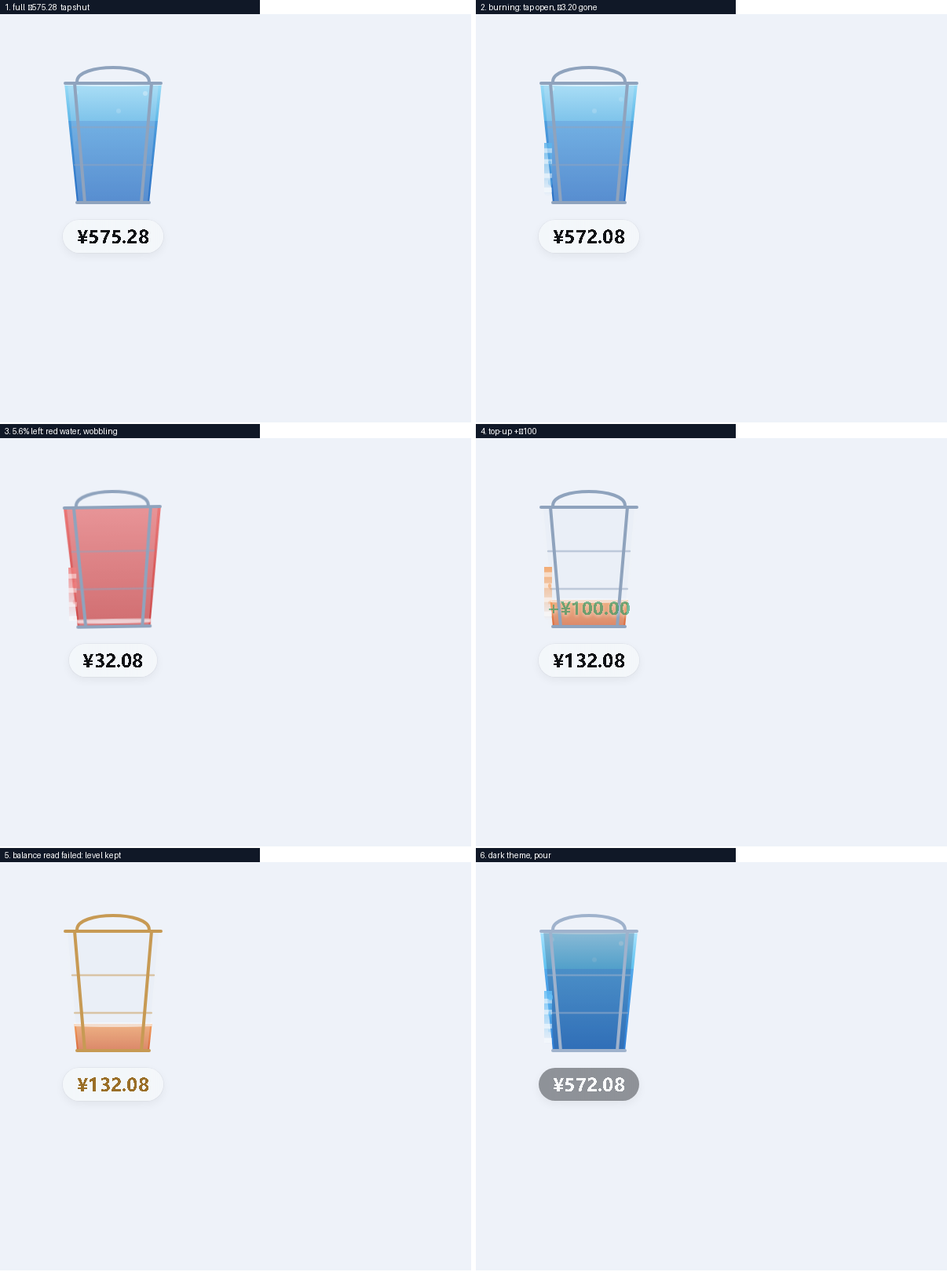
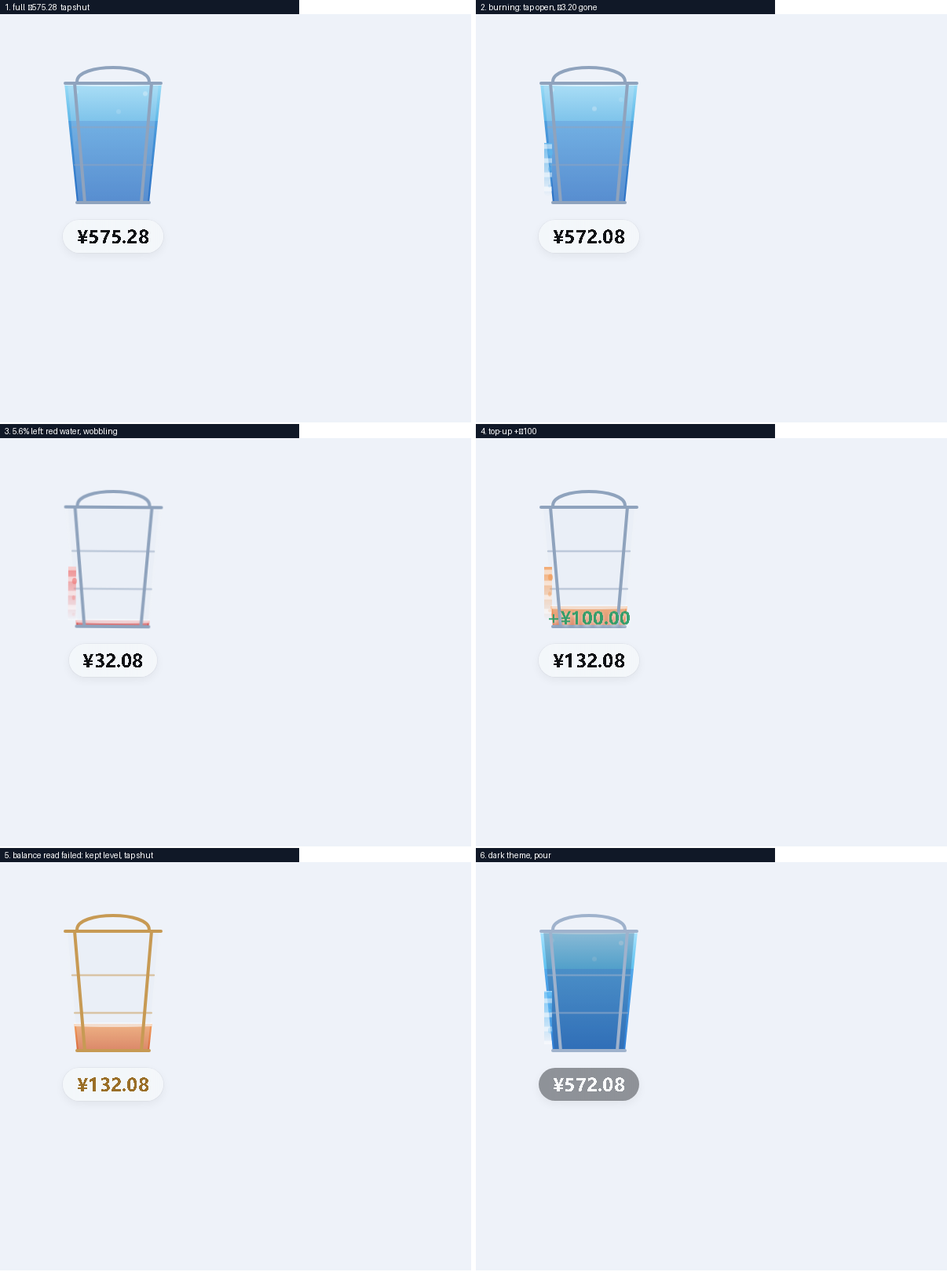
Host reflection and diagnosable failures (0.1.1)
The Host now ships its strict reflection (lib/typert.host.js, exported as
./typert). Without it the plugin could load every file and still have the balance
stream refused, so a Git or npm install would have looked installed and shown
nothing at all.

Also: a Host without a usable fetch is reported as `no fetch` instead of a vague
network failure, and the settings panel names the short, sanitised reason behind a
non-ready state (no key, rejected key, no fetch, timeout, unreadable answer), so a
first run can be diagnosed without a console. The state screenshot was regenerated
from the shipped UI.

diff --git a/lib/client.js b/lib/client.js
@@ -1,7 +1,7 @@
 // Generated by tools/build.mjs. Reads one balance stream over the existing authenticated connection.
 window.__ModuleLoader__.load({id:'dsh-plugin-token-bucket',factory:function(require){
 'use strict';
-const CSS=":host{all:initial;position:fixed;inset:0;pointer-events:none;z-index:30;font-family:var(--dsw-font-family,inherit);color-scheme:inherit;\n/* Inherit live official tokens; fallbacks match Desktop for offline rendering. */\n--ink:var(--dsw-alias-label-primary,light-dark(#0f1115,#f9fafb));--muted:var(--dsw-alias-label-secondary,light-dark(#61666b,#cfd3d6));\n--surface:var(--dsw-specific-menu,light-dark(#f8f9fa94,#30313680));--border:var(--dsw-alias-border-l3,light-dark(#0000001f,#ffffff29));\n--hairline:var(--dsw-alias-border-l1,light-dark(#0000000a,#ffffff0f));--divider:var(--dsw-alias-border-l2,light-dark(#0000001a,#ffffff1f));\n--accent:var(--dsw-alias-brand-primary,light-dark(#0f1115,#f9fafb));--foreground:var(--dsw-alias-label-primary-foreground,light-dark(#ffffff,#0f1115));\n--tint:var(--dsw-alias-interactive-bg-hover,light-dark(#2631480f,#ffffff14));--active:var(--dsw-alias-interactive-bg-active,light-dark(#2631481a,#ffffff24));\n--control:var(--dsw-alias-bg-module-platform,light-dark(#f9fafb,#353638));\n--menu-blur:var(--dsw-menu-backdrop-filter,blur(40px) saturate(150%));\n/* Bucket palette: glass and metal stay neutral, water carries the meaning. */\n--pail-line:light-dark(#8fa3bd,#9fb2cc);--pail-empty:light-dark(#eef2f8,#2a3242);--pail-glass:light-dark(#dfe8f4,#33405a);\n--water-top:light-dark(#5fb4ea,#63bdf5);--water-deep:light-dark(#2a6fc4,#2f7ed6);--bonus-top:light-dark(#9adcf7,#a8e4ff);--bonus-deep:light-dark(#5fb8e8,#5cc0ef);\n--water-line:light-dark(#ffffffb0,#ffffff8c);--danger-top:light-dark(#f3a05f,#f0a86b);--danger-deep:light-dark(#d9683c,#cc6136);--low-top:light-dark(#ef7f7f,#f08b8b);--low-deep:light-dark(#c94040,#b93c3c)}\n*{box-sizing:border-box}button,input,select{font:inherit}button{cursor:pointer}button:focus-visible,input:focus-visible{outline:2px solid var(--accent);outline-offset:4px}[hidden]{display:none!important}\n.bucket{position:fixed;width:104px;height:156px;pointer-events:none;isolation:isolate;user-select:none;-webkit-user-select:none}\n.bucket-button{all:unset;box-sizing:border-box;display:flex;flex-direction:column;align-items:center;width:100%;height:100%;padding:4px 0 0;cursor:grab;touch-action:none;pointer-events:auto;-webkit-app-region:no-drag;border-radius:18px}\n.bucket-button:active{cursor:grabbing}.bucket-button:focus-visible{outline:2px dashed var(--accent);outline-offset:0;border-radius:18px}\n.stage{position:relative;display:block;width:74px;height:92px;flex:none}\n.pail{position:absolute;inset:0;overflow:hidden;background:var(--pail-empty);\n  clip-path:polygon(8.1% 10.9%,91.9% 10.9%,81.1% 93.5%,18.9% 93.5%)}\n.water{position:absolute;left:-2px;right:-2px;bottom:6.5%;height:calc(var(--level,0) * 82.6%);transition:height .9s cubic-bezier(.3,0,.2,1)}\n.layer{position:absolute;left:0;right:0;background:linear-gradient(180deg,var(--water-top),var(--water-deep))}\n.layer.base{inset:0}\n.layer.bonus{top:0;height:calc(var(--bonus-share,0) * 100%);background:linear-gradient(180deg,var(--bonus-top),var(--bonus-deep))}\n.surf{position:absolute;left:0;right:0;top:-1px;height:3px;border-radius:50%;background:var(--water-line);opacity:.9}\n.foam{position:absolute;inset:0;overflow:hidden;opacity:calc(var(--bonus-share,0) * 1.6)}\n.foam span{position:absolute;width:3px;height:3px;border-radius:50%;background:#ffffffc9;animation:foam 4.2s ease-in-out infinite}\n.foam span:nth-child(1){left:18%;top:6%}.foam span:nth-child(2){left:52%;top:22%;animation-delay:-1.4s}.foam span:nth-child(3){left:74%;top:11%;animation-delay:-2.6s}\n@keyframes foam{0%,100%{transform:translateY(0);opacity:.35}50%{transform:translateY(-3px);opacity:.9}}\n.outline{position:absolute;inset:0;width:100%;height:100%;overflow:visible;pointer-events:none;color:var(--pail-line)}\n.outline path,.outline ellipse,.outline line{fill:none;stroke:currentColor;stroke-width:2;stroke-linecap:round}\n.outline .glass{fill:var(--pail-glass);fill-opacity:.25;stroke:none}\n.outline .rib{stroke-width:1.2;opacity:.5}\n.stream{position:absolute;left:15%;top:52%;width:calc(1px + var(--flow,0) * 4px);height:calc(4px + var(--flow,0) * 30px);\n  background:linear-gradient(180deg,var(--water-top),transparent);opacity:calc(var(--flow,0) * .85);border-radius:0 0 4px 4px;transform:translateX(-50%)}\n.stream::after{content:\"\";position:absolute;inset:0;background:repeating-linear-gradient(180deg,#ffffff8c 0 3px,transparent 3px 9px);\n  animation:fall .5s linear infinite;animation-duration:calc(.9s - var(--flow,0) * .65s)}\n@keyframes fall{from{background-position-y:0}to{background-position-y:12px}}\n.drops{position:absolute;left:15%;top:52%;width:0;height:0;pointer-events:none;opacity:var(--flow,0)}\n.drops span{position:absolute;width:3px;height:4px;border-radius:50%;background:var(--water-top);animation:drip 1.1s linear infinite}\n.drops span:nth-child(2){animation-delay:-.36s;width:2px;height:3px}\n.drops span:nth-child(3){animation-delay:-.72s;width:2px;height:2px}\n@keyframes drip{from{transform:translateY(0);opacity:.9}to{transform:translateY(34px);opacity:0}}\n.splash{position:absolute;left:50%;bottom:calc(6.5% + var(--level,0) * 82.6% - 5px);width:64px;height:10px;margin-left:-32px;border-radius:50%;border:2px solid var(--water-line);opacity:0;pointer-events:none}\n.bucket[data-splash=true] .splash{animation:splash .85s ease-out 1}\n@keyframes splash{0%{opacity:.85;transform:scale(.4)}100%{opacity:0;transform:scale(1.25)}}\n.delta{position:absolute;left:50%;top:calc(52% + 26px);transform:translateX(-50%);font-size:11px;font-weight:600;font-variant-numeric:tabular-nums;color:var(--water-deep);opacity:0;pointer-events:none;white-space:nowrap;text-shadow:0 1px 2px light-dark(#ffffffc0,#00000080)}\n.bucket[data-delta=spend] .delta{animation:delta-up 1.4s ease-out 1}\n.bucket[data-delta=refill] .delta{color:#2f9e6b;animation:delta-up 1.8s ease-out 1}\n@keyframes delta-up{0%{opacity:0;transform:translate(-50%,6px)}25%{opacity:1}100%{opacity:0;transform:translate(-50%,-16px)}}\n.amount{margin-top:5px;font-size:11.5px;font-weight:600;font-variant-numeric:tabular-nums;letter-spacing:.01em;color:var(--ink);\n  background:var(--surface);backdrop-filter:var(--menu-blur);border-radius:99px;padding:2px 9px;box-shadow:0 0 0 .5px var(--hairline),0 2px 6px #0000000f;transition:opacity .2s}\n.bucket[data-amount=false] .amount{opacity:0}\n.bucket:hover .amount,.bucket:focus-within .amount{opacity:1}\n.bucket[data-level=low] .layer{background:linear-gradient(180deg,var(--low-top),var(--low-deep))}\n.bucket[data-level=low] .stream{background:linear-gradient(180deg,var(--low-top),transparent)}\n.bucket[data-level=low] .drops span{background:var(--low-top)}\n.bucket[data-level=mid] .layer{background:linear-gradient(180deg,var(--danger-top),var(--danger-deep))}\n.bucket[data-level=mid] .stream{background:linear-gradient(180deg,var(--danger-top),transparent)}\n.bucket[data-level=mid] .drops span{background:var(--danger-top)}\n.bucket[data-level=low] .stage{animation:wobble 2.6s ease-in-out infinite}\n@keyframes wobble{0%,100%{transform:rotate(-1.4deg)}50%{transform:rotate(1.4deg)}}\n/* Not-ready states: the bucket keeps its last level but stops pretending to be live. */\n.bucket[data-status=unconfigured] .pail,.bucket[data-status=unauthorized] .pail,.bucket[data-status=invalid] .pail{background:var(--pail-empty)}\n.bucket[data-status=unconfigured] .layer,.bucket[data-status=unauthorized] .layer,.bucket[data-status=invalid] .layer{background:linear-gradient(180deg,#9aa8bd80,#7b8aa380);filter:saturate(.15)}\n.bucket[data-status=unconfigured] .stream,.bucket[data-status=unauthorized] .stream,.bucket[data-status=invalid] .stream,\n.bucket[data-status=unconfigured] .drops,.bucket[data-status=unauthorized] .drops,.bucket[data-status=invalid] .drops{opacity:0}\n.bucket[data-status=stale] .outline,.bucket[data-status=unreachable] .outline{color:light-dark(#c79a54,#d8ab63)}\n.bucket[data-status=stale] .amount,.bucket[data-status=unreachable] .amount{color:light-dark(#9a6f28,#e0bd80)}\n.bucket[data-dragging=true] .stage{animation-play-state:paused!important}\n.panel,.restore,.panel button,.setting select{corner-shape:var(--dsw-corner-shape,superellipse(1.5))}\n.panel,.restore{background:var(--surface);backdrop-filter:var(--menu-blur);box-shadow:0 0 0 .5px var(--hairline),0 3px 8px #0000000a,0 0 20px #0000000d}\n.panel{pointer-events:auto;position:fixed;z-index:2;width:268px;max-width:calc(100vw - 24px);max-height:calc(100vh - 80px);overflow:auto;border:0;border-radius:16px;padding:14px;color:var(--ink);font-size:13px;line-height:20px;-webkit-app-region:no-drag}\n.panel-head{display:flex;align-items:center;gap:8px;margin-bottom:8px}.panel-head strong{font-size:14px;flex:1;font-weight:600}\n.close{display:grid;place-items:center;flex:none;border:0;background:transparent;color:var(--muted);width:28px;height:28px;padding:0;border-radius:8px}.close:hover{background:var(--tint);color:var(--ink)}\n.subtitle{margin:0 0 12px;color:var(--muted);font-size:12px;line-height:19px}\n.setting{display:flex;align-items:center;justify-content:space-between;gap:12px;min-height:34px;margin:4px 0}.setting label{flex:1;min-width:0;cursor:pointer}\n.setting input[type=range]{appearance:none;flex:none;width:120px;max-width:58%;height:28px;margin:0;background:transparent;cursor:pointer;border-radius:8px}\n.setting input[type=range]::-webkit-slider-runnable-track{height:4px;border-radius:99px;background:linear-gradient(to right,var(--accent) 0 var(--range-progress,0%),var(--border) var(--range-progress,0%) 100%)}\n.setting input[type=range]::-webkit-slider-thumb{appearance:none;width:14px;height:14px;margin-top:-5px;border:2px solid var(--foreground);border-radius:50%;background:var(--accent);box-shadow:0 0 0 1px var(--border)}\n.setting input[type=checkbox]{appearance:none;position:relative;flex:none;width:36px;height:20px;margin:0;border:0;border-radius:99px;background:var(--border);cursor:pointer;transition:background .15s}\n.setting input[type=checkbox]::before{content:\"\";position:absolute;left:2px;top:2px;width:16px;height:16px;border-radius:50%;background:var(--foreground);transition:transform .15s}\n.setting input[type=checkbox]:checked{background:var(--accent)}.setting input[type=checkbox]:checked::before{transform:translateX(16px)}\n.size-value{margin-left:3px;font-size:11px;font-variant-numeric:tabular-nums;color:var(--muted)}\n.readout{margin:10px 0 0;padding:10px 0 0;border-top:.5px solid var(--divider);display:grid;grid-template-columns:auto 1fr;gap:3px 10px;font-size:12px;line-height:18px}\n.readout dt{color:var(--muted);white-space:nowrap}.readout dd{margin:0;text-align:right;font-variant-numeric:tabular-nums;overflow-wrap:anywhere}\n.panel-actions{display:flex;gap:8px;margin-top:12px;padding-top:12px;border-top:.5px solid var(--divider)}\n.action{flex:1;min-width:0;min-height:32px;border:1px solid var(--border);background:transparent;color:var(--ink);border-radius:8px;padding:5px 8px;font-size:12px;line-height:20px}.action:hover{background:var(--tint)}.action:active,.close:active{background:var(--active)}\n.restore{position:fixed;right:18px;bottom:18px;pointer-events:auto;border:0;color:var(--muted);border-radius:99px;padding:7px 11px;font-size:11px;-webkit-app-region:no-drag}.restore:hover{color:var(--ink);background:var(--control)}\n.panel button:focus-visible,.panel input:focus-visible{outline:2px solid var(--accent);outline-offset:2px}\n:host([data-paused=true]) *,:host([data-motion=false]) *{animation:none!important;transition:none!important}\n@media(prefers-reduced-motion:reduce){*{animation:none!important;transition:none!important}}\n";
+const CSS=":host{all:initial;position:fixed;inset:0;pointer-events:none;z-index:30;font-family:var(--dsw-font-family,inherit);color-scheme:inherit;\n/* Inherit live official tokens; fallbacks match Desktop for offline rendering. */\n--ink:var(--dsw-alias-label-primary,light-dark(#0f1115,#f9fafb));--muted:var(--dsw-alias-label-secondary,light-dark(#61666b,#cfd3d6));\n--surface:var(--dsw-specific-menu,light-dark(#f8f9fa94,#30313680));--border:var(--dsw-alias-border-l3,light-dark(#0000001f,#ffffff29));\n--hairline:var(--dsw-alias-border-l1,light-dark(#0000000a,#ffffff0f));--divider:var(--dsw-alias-border-l2,light-dark(#0000001a,#ffffff1f));\n--accent:var(--dsw-alias-brand-primary,light-dark(#0f1115,#f9fafb));--foreground:var(--dsw-alias-label-primary-foreground,light-dark(#ffffff,#0f1115));\n--tint:var(--dsw-alias-interactive-bg-hover,light-dark(#2631480f,#ffffff14));--active:var(--dsw-alias-interactive-bg-active,light-dark(#2631481a,#ffffff24));\n--control:var(--dsw-alias-bg-module-platform,light-dark(#f9fafb,#353638));\n--menu-blur:var(--dsw-menu-backdrop-filter,blur(40px) saturate(150%));\n/* Bucket palette: glass and metal stay neutral, water carries the meaning. */\n--pail-line:light-dark(#8fa3bd,#9fb2cc);--pail-empty:light-dark(#eef2f8,#2a3242);--pail-glass:light-dark(#dfe8f4,#33405a);\n--water-top:light-dark(#5fb4ea,#63bdf5);--water-deep:light-dark(#2a6fc4,#2f7ed6);--bonus-top:light-dark(#9adcf7,#a8e4ff);--bonus-deep:light-dark(#5fb8e8,#5cc0ef);\n--water-line:light-dark(#ffffffb0,#ffffff8c);--danger-top:light-dark(#f3a05f,#f0a86b);--danger-deep:light-dark(#d9683c,#cc6136);--low-top:light-dark(#ef7f7f,#f08b8b);--low-deep:light-dark(#c94040,#b93c3c)}\n*{box-sizing:border-box}button,input,select{font:inherit}button{cursor:pointer}button:focus-visible,input:focus-visible{outline:2px solid var(--accent);outline-offset:4px}[hidden]{display:none!important}\n.bucket{position:fixed;width:104px;height:156px;pointer-events:none;isolation:isolate;user-select:none;-webkit-user-select:none}\n.bucket-button{all:unset;box-sizing:border-box;display:flex;flex-direction:column;align-items:center;width:100%;height:100%;padding:4px 0 0;cursor:grab;touch-action:none;pointer-events:auto;-webkit-app-region:no-drag;border-radius:18px}\n.bucket-button:active{cursor:grabbing}.bucket-button:focus-visible{outline:2px dashed var(--accent);outline-offset:0;border-radius:18px}\n.stage{position:relative;display:block;width:74px;height:92px;flex:none}\n.pail{position:absolute;inset:0;overflow:hidden;background:var(--pail-empty);\n  clip-path:polygon(8.1% 10.9%,91.9% 10.9%,81.1% 93.5%,18.9% 93.5%)}\n.water{position:absolute;left:-2px;right:-2px;bottom:6.5%;height:calc(var(--level,0) * 82.6%);transition:height .9s cubic-bezier(.3,0,.2,1)}\n.layer{position:absolute;left:0;right:0;background:linear-gradient(180deg,var(--water-top),var(--water-deep))}\n.layer.base{inset:0}\n.layer.bonus{top:0;height:calc(var(--bonus-share,0) * 100%);background:linear-gradient(180deg,var(--bonus-top),var(--bonus-deep))}\n.surf{position:absolute;left:0;right:0;top:-1px;height:3px;border-radius:50%;background:var(--water-line);opacity:.9}\n.foam{position:absolute;inset:0;overflow:hidden;opacity:calc(var(--bonus-share,0) * 1.6)}\n.foam span{position:absolute;width:3px;height:3px;border-radius:50%;background:#ffffffc9;animation:foam 4.2s ease-in-out infinite}\n.foam span:nth-child(1){left:18%;top:6%}.foam span:nth-child(2){left:52%;top:22%;animation-delay:-1.4s}.foam span:nth-child(3){left:74%;top:11%;animation-delay:-2.6s}\n@keyframes foam{0%,100%{transform:translateY(0);opacity:.35}50%{transform:translateY(-3px);opacity:.9}}\n.outline{position:absolute;inset:0;width:100%;height:100%;overflow:visible;pointer-events:none;color:var(--pail-line)}\n.outline path,.outline ellipse,.outline line{fill:none;stroke:currentColor;stroke-width:2;stroke-linecap:round}\n.outline .glass{fill:var(--pail-glass);fill-opacity:.25;stroke:none}\n.outline .rib{stroke-width:1.2;opacity:.5}\n.stream{position:absolute;left:15%;top:52%;width:calc(1px + var(--flow,0) * 4px);height:calc(4px + var(--flow,0) * 30px);\n  background:linear-gradient(180deg,var(--water-top),transparent);opacity:calc(var(--flow,0) * .85);border-radius:0 0 4px 4px;transform:translateX(-50%)}\n.stream::after{content:\"\";position:absolute;inset:0;background:repeating-linear-gradient(180deg,#ffffff8c 0 3px,transparent 3px 9px);\n  animation:fall .5s linear infinite;animation-duration:calc(.9s - var(--flow,0) * .65s)}\n@keyframes fall{from{background-position-y:0}to{background-position-y:12px}}\n.drops{position:absolute;left:15%;top:52%;width:0;height:0;pointer-events:none;opacity:var(--flow,0)}\n.drops span{position:absolute;width:3px;height:4px;border-radius:50%;background:var(--water-top);animation:drip 1.1s linear infinite}\n.drops span:nth-child(2){animation-delay:-.36s;width:2px;height:3px}\n.drops span:nth-child(3){animation-delay:-.72s;width:2px;height:2px}\n@keyframes drip{from{transform:translateY(0);opacity:.9}to{transform:translateY(34px);opacity:0}}\n.splash{position:absolute;left:50%;bottom:calc(6.5% + var(--level,0) * 82.6% - 5px);width:64px;height:10px;margin-left:-32px;border-radius:50%;border:2px solid var(--water-line);opacity:0;pointer-events:none}\n.bucket[data-splash=true] .splash{animation:splash .85s ease-out 1}\n@keyframes splash{0%{opacity:.85;transform:scale(.4)}100%{opacity:0;transform:scale(1.25)}}\n.delta{position:absolute;left:50%;top:calc(52% + 26px);transform:translateX(-50%);font-size:11px;font-weight:600;font-variant-numeric:tabular-nums;color:var(--water-deep);opacity:0;pointer-events:none;white-space:nowrap;text-shadow:0 1px 2px light-dark(#ffffffc0,#00000080)}\n.bucket[data-delta=spend] .delta{animation:delta-up 1.4s ease-out 1}\n.bucket[data-delta=refill] .delta{color:#2f9e6b;animation:delta-up 1.8s ease-out 1}\n@keyframes delta-up{0%{opacity:0;transform:translate(-50%,6px)}25%{opacity:1}100%{opacity:0;transform:translate(-50%,-16px)}}\n.amount{margin-top:5px;font-size:11.5px;font-weight:600;font-variant-numeric:tabular-nums;letter-spacing:.01em;color:var(--ink);\n  background:var(--surface);backdrop-filter:var(--menu-blur);border-radius:99px;padding:2px 9px;box-shadow:0 0 0 .5px var(--hairline),0 2px 6px #0000000f;transition:opacity .2s}\n.bucket[data-amount=false] .amount{opacity:0}\n.bucket:hover .amount,.bucket:focus-within .amount{opacity:1}\n.bucket[data-level=low] .layer{background:linear-gradient(180deg,var(--low-top),var(--low-deep))}\n.bucket[data-level=low] .stream{background:linear-gradient(180deg,var(--low-top),transparent)}\n.bucket[data-level=low] .drops span{background:var(--low-top)}\n.bucket[data-level=mid] .layer{background:linear-gradient(180deg,var(--danger-top),var(--danger-deep))}\n.bucket[data-level=mid] .stream{background:linear-gradient(180deg,var(--danger-top),transparent)}\n.bucket[data-level=mid] .drops span{background:var(--danger-top)}\n.bucket[data-level=low] .stage{animation:wobble 2.6s ease-in-out infinite}\n@keyframes wobble{0%,100%{transform:rotate(-1.4deg)}50%{transform:rotate(1.4deg)}}\n/* Not-ready states: the bucket keeps its last level but stops pretending to be live. */\n.bucket[data-status=unconfigured] .pail,.bucket[data-status=unauthorized] .pail,.bucket[data-status=invalid] .pail{background:var(--pail-empty)}\n.bucket[data-status=unconfigured] .layer,.bucket[data-status=unauthorized] .layer,.bucket[data-status=invalid] .layer{background:linear-gradient(180deg,#9aa8bd80,#7b8aa380);filter:saturate(.15)}\n.bucket[data-status=unconfigured] .stream,.bucket[data-status=unauthorized] .stream,.bucket[data-status=invalid] .stream,\n.bucket[data-status=unconfigured] .drops,.bucket[data-status=unauthorized] .drops,.bucket[data-status=invalid] .drops{opacity:0}\n.bucket[data-status=stale] .outline,.bucket[data-status=unreachable] .outline{color:light-dark(#c79a54,#d8ab63)}\n.bucket[data-status=stale] .amount,.bucket[data-status=unreachable] .amount{color:light-dark(#9a6f28,#e0bd80)}\n.bucket[data-dragging=true] .stage{animation-play-state:paused!important}\n.panel,.restore,.panel button,.setting select{corner-shape:var(--dsw-corner-shape,superellipse(1.5))}\n.panel,.restore{background:var(--surface);backdrop-filter:var(--menu-blur);box-shadow:0 0 0 .5px var(--hairline),0 3px 8px #0000000a,0 0 20px #0000000d}\n.panel{pointer-events:auto;position:fixed;z-index:2;width:268px;max-width:calc(100vw - 24px);max-height:calc(100vh - 80px);overflow:auto;border:0;border-radius:16px;padding:14px;color:var(--ink);font-size:13px;line-height:20px;-webkit-app-region:no-drag}\n.panel-head{display:flex;align-items:center;gap:8px;margin-bottom:8px}.panel-head strong{font-size:14px;flex:1;font-weight:600}\n.close{display:grid;place-items:center;flex:none;border:0;background:transparent;color:var(--muted);width:28px;height:28px;padding:0;border-radius:8px}.close:hover{background:var(--tint);color:var(--ink)}\n.subtitle{margin:0 0 12px;color:var(--muted);font-size:12px;line-height:19px}\n.setting{display:flex;align-items:center;justify-content:space-between;gap:12px;min-height:34px;margin:4px 0}.setting label{flex:1;min-width:0;cursor:pointer}\n.setting input[type=range]{appearance:none;flex:none;width:120px;max-width:58%;height:28px;margin:0;background:transparent;cursor:pointer;border-radius:8px}\n.setting input[type=range]::-webkit-slider-runnable-track{height:4px;border-radius:99px;background:linear-gradient(to right,var(--accent) 0 var(--range-progress,0%),var(--border) var(--range-progress,0%) 100%)}\n.setting input[type=range]::-webkit-slider-thumb{appearance:none;width:14px;height:14px;margin-top:-5px;border:2px solid var(--foreground);border-radius:50%;background:var(--accent);box-shadow:0 0 0 1px var(--border)}\n.setting input[type=checkbox]{appearance:none;position:relative;flex:none;width:36px;height:20px;margin:0;border:0;border-radius:99px;background:var(--border);cursor:pointer;transition:background .15s}\n.setting input[type=checkbox]::before{content:\"\";position:absolute;left:2px;top:2px;width:16px;height:16px;border-radius:50%;background:var(--foreground);transition:transform .15s}\n.setting input[type=checkbox]:checked{background:var(--accent)}.setting input[type=checkbox]:checked::before{transform:translateX(16px)}\n.size-value{margin-left:3px;font-size:11px;font-variant-numeric:tabular-nums;color:var(--muted)}\n.readout{margin:10px 0 0;padding:10px 0 0;border-top:.5px solid var(--divider);display:grid;grid-template-columns:auto 1fr;gap:3px 10px;font-size:12px;line-height:18px}\n.readout dt{color:var(--muted);white-space:nowrap}.readout dd{margin:0;text-align:right;font-variant-numeric:tabular-nums;overflow-wrap:anywhere}\n.detail{margin:8px 0 0;color:var(--muted);font-size:11px;line-height:17px;overflow-wrap:anywhere}\n.panel-actions{display:flex;gap:8px;margin-top:12px;padding-top:12px;border-top:.5px solid var(--divider)}\n.action{flex:1;min-width:0;min-height:32px;border:1px solid var(--border);background:transparent;color:var(--ink);border-radius:8px;padding:5px 8px;font-size:12px;line-height:20px}.action:hover{background:var(--tint)}.action:active,.close:active{background:var(--active)}\n.restore{position:fixed;right:18px;bottom:18px;pointer-events:auto;border:0;color:var(--muted);border-radius:99px;padding:7px 11px;font-size:11px;-webkit-app-region:no-drag}.restore:hover{color:var(--ink);background:var(--control)}\n.panel button:focus-visible,.panel input:focus-visible{outline:2px solid var(--accent);outline-offset:2px}\n:host([data-paused=true]) *,:host([data-motion=false]) *{animation:none!important;transition:none!important}\n@media(prefers-reduced-motion:reduce){*{animation:none!important;transition:none!important}}\n";
 /** Our own dictionary; the resolved language is supplied by DSH, never the OS. */
 const MESSAGES = Object.freeze({
   en: Object.freeze({
@@ -342,6 +342,7 @@ class BucketWidget {
             <dt data-i18n="label.capacity"></dt><dd class="v-capacity"></dd>
             <dt data-i18n="label.updated"></dt><dd class="v-updated"></dd>
           </dl>
+          <p class="detail" hidden></p>
           <div class="panel-actions"><button class="action reset" type="button" data-i18n="action.reset"></button><button class="action hide" type="button" data-i18n="action.hide"></button></div>
         </section>
         <button class="restore" type="button" hidden data-i18n-aria="action.restoreAria" data-i18n="action.restore"></button>
@@ -354,6 +355,7 @@ class BucketWidget {
     this.amount = this.root.querySelector('.amount');
     this.delta = this.root.querySelector('.delta');
     this.panel = this.root.querySelector('.panel');
+    this.detail = this.root.querySelector('.detail');
     this.restore = this.root.querySelector('.restore');
     this.range = this.root.querySelector('#bucket-size');
     this.amountSwitch = this.root.querySelector('#bucket-amount');
@@ -550,6 +552,10 @@ class BucketWidget {
       ? translate(this.language, 'value.secondsAgo', { count: seconds })
       : translate(this.language, 'value.minutesAgo', { count: Math.round(seconds / 60) });
     const statusText = translate(this.language, view.stale ? 'state.stale' : `state.${view.status}`);
+    // A short, already-sanitised reason, so a first-run failure is diagnosable
+    // (wrong key, no key, no fetch, timeout) instead of just "cannot connect".
+    this.detail.textContent = view.status === 'ready' && !view.stale ? '' : (this.state.detail ?? '');
+    this.detail.hidden = this.detail.textContent === '';
     this.button.setAttribute('aria-label', view.totalCents === null
       ? translate(this.language, 'bucket.ariaNoBalance', { status: statusText })
       : translate(this.language, 'bucket.aria', { status: statusText, balance: view.totalText, level: view.levelPct }));

diff --git a/src/widget.js b/src/widget.js
@@ -65,6 +65,7 @@ export class BucketWidget {
             <dt data-i18n="label.capacity"></dt><dd class="v-capacity"></dd>
             <dt data-i18n="label.updated"></dt><dd class="v-updated"></dd>
           </dl>
+          <p class="detail" hidden></p>
           <div class="panel-actions"><button class="action reset" type="button" data-i18n="action.reset"></button><button class="action hide" type="button" data-i18n="action.hide"></button></div>
         </section>
         <button class="restore" type="button" hidden data-i18n-aria="action.restoreAria" data-i18n="action.restore"></button>
@@ -77,6 +78,7 @@ export class BucketWidget {
     this.amount = this.root.querySelector('.amount');
     this.delta = this.root.querySelector('.delta');
     this.panel = this.root.querySelector('.panel');
+    this.detail = this.root.querySelector('.detail');
     this.restore = this.root.querySelector('.restore');
     this.range = this.root.querySelector('#bucket-size');
     this.amountSwitch = this.root.querySelector('#bucket-amount');
@@ -273,6 +275,10 @@ export class BucketWidget {
       ? translate(this.language, 'value.secondsAgo', { count: seconds })
       : translate(this.language, 'value.minutesAgo', { count: Math.round(seconds / 60) });
     const statusText = translate(this.language, view.stale ? 'state.stale' : `state.${view.status}`);
+    // A short, already-sanitised reason, so a first-run failure is diagnosable
+    // (wrong key, no key, no fetch, timeout) instead of just "cannot connect".
+    this.detail.textContent = view.status === 'ready' && !view.stale ? '' : (this.state.detail ?? '');
+    this.detail.hidden = this.detail.textContent === '';
     this.button.setAttribute('aria-label', view.totalCents === null
       ? translate(this.language, 'bucket.ariaNoBalance', { status: statusText })
       : translate(this.language, 'bucket.aria', { status: statusText, balance: view.totalText, level: view.levelPct }));

diff --git a/src/bucket.css b/src/bucket.css
@@ -84,6 +84,7 @@
 .size-value{margin-left:3px;font-size:11px;font-variant-numeric:tabular-nums;color:var(--muted)}
 .readout{margin:10px 0 0;padding:10px 0 0;border-top:.5px solid var(--divider);display:grid;grid-template-columns:auto 1fr;gap:3px 10px;font-size:12px;line-height:18px}
 .readout dt{color:var(--muted);white-space:nowrap}.readout dd{margin:0;text-align:right;font-variant-numeric:tabular-nums;overflow-wrap:anywhere}
+.detail{margin:8px 0 0;color:var(--muted);font-size:11px;line-height:17px;overflow-wrap:anywhere}
 .panel-actions{display:flex;gap:8px;margin-top:12px;padding-top:12px;border-top:.5px solid var(--divider)}
 .action{flex:1;min-width:0;min-height:32px;border:1px solid var(--border);background:transparent;color:var(--ink);border-radius:8px;padding:5px 8px;font-size:12px;line-height:20px}.action:hover{background:var(--tint)}.action:active,.close:active{background:var(--active)}
 .restore{position:fixed;right:18px;bottom:18px;pointer-events:auto;border:0;color:var(--muted);border-radius:99px;padding:7px 11px;font-size:11px;-webkit-app-region:no-drag}.restore:hover{color:var(--ink);background:var(--control)}

diff --git a/lib/typert.host.js b/lib/typert.host.js
@@ -1,0 +1,26 @@
+// Authored strict reflection, validated against the installed DSH Typert loader.
+// The Host needs this to accept the browser half's mounted descriptor; without it the
+// balance stream is refused even though every file is present.
+import { BUCKET_WATCH_DESCRIPTOR, BUCKET_SNAPSHOT_SCHEMA } from './remote.js';
+
+export const TYPERT = {
+  package: 'dsh-plugin-token-bucket', face: 'host',
+  schemas: [
+    { name: 'BucketSnapshot', create: () => BUCKET_SNAPSHOT_SCHEMA },
+  ],
+  invocations: [BUCKET_WATCH_DESCRIPTOR],
+  model: {
+    services: [{
+      key: 'tokenBucket', exportName: 'TokenBucketService',
+      description: 'Read-only API balance snapshots; no session content, history or model calls.',
+      summary: 'Balance bucket balance snapshots', tags: [],
+      members: [
+        { kind: 'method', name: 'watch', signature: 'watch(signal: AbortSignal): AsyncIterable<BucketSnapshot>' },
+      ],
+      types: [],
+    }],
+    events: [], objects: [],
+  },
+};
+
+export default TYPERT;

diff --git a/src/typert.host.js b/src/typert.host.js
@@ -1,0 +1,26 @@
+// Authored strict reflection, validated against the installed DSH Typert loader.
+// The Host needs this to accept the browser half's mounted descriptor; without it the
+// balance stream is refused even though every file is present.
+import { BUCKET_WATCH_DESCRIPTOR, BUCKET_SNAPSHOT_SCHEMA } from './remote.js';
+
+export const TYPERT = {
+  package: 'dsh-plugin-token-bucket', face: 'host',
+  schemas: [
+    { name: 'BucketSnapshot', create: () => BUCKET_SNAPSHOT_SCHEMA },
+  ],
+  invocations: [BUCKET_WATCH_DESCRIPTOR],
+  model: {
+    services: [{
+      key: 'tokenBucket', exportName: 'TokenBucketService',
+      description: 'Read-only API balance snapshots; no session content, history or model calls.',
+      summary: 'Balance bucket balance snapshots', tags: [],
+      members: [
+        { kind: 'method', name: 'watch', signature: 'watch(signal: AbortSignal): AsyncIterable<BucketSnapshot>' },
+      ],
+      types: [],
+    }],
+    events: [], objects: [],
+  },
+};
+
+export default TYPERT;

diff --git a/src/balance.js b/src/balance.js
@@ -51,6 +51,8 @@ export function parseBalancePayload(text) {
  */
 export async function readBalance({ fetchImpl, key, signal, timeoutMs = 8000 }) {
   if (typeof key !== 'string' || key.length === 0) return { status: 'unconfigured', detail: 'no key' };
+  // A Host without fetch is reported as itself, never as a vague network failure.
+  if (typeof fetchImpl !== 'function') return { status: 'unreachable', detail: 'no fetch' };
   const controller = new AbortController();
   const timer = setTimeout(() => controller.abort(), timeoutMs);
   const stop = () => { clearTimeout(timer); if (signal) signal.removeEventListener('abort', forward); };

diff --git a/lib/index.js b/lib/index.js
@@ -61,6 +61,7 @@ function parseBalancePayload(text) {
 }
 async function readBalance({ fetchImpl, key, signal, timeoutMs = 8e3 }) {
   if (typeof key !== "string" || key.length === 0) return { status: "unconfigured", detail: "no key" };
+  if (typeof fetchImpl !== "function") return { status: "unreachable", detail: "no fetch" };
   const controller = new AbortController();
   const timer = setTimeout(() => controller.abort(), timeoutMs);
   const stop = () => {

diff --git a/CHANGELOG.md b/CHANGELOG.md
@@ -1,5 +1,21 @@
 # Changelog
 
+## 0.1.1 — 2026-10-15
+
+### Fixed
+
+- **The Host now ships its strict reflection** (`lib/typert.host.js`, exported as `./typert`). Without it the plugin could load every file and still have the balance stream refused — a Git or npm install would have looked installed and shown nothing.
+- A Host without a usable `fetch` is reported as `no fetch` instead of a vague network failure.
+- The water variables are set on the bucket root, so the spout, the falling stream and the droplets actually animate, and the low-water rule tints only the water rather than the whole pail.
+
+### Added
+
+- The settings panel shows the short, sanitised reason behind a non-ready state (no key, rejected key, no fetch, timeout, unreadable answer), so a first run can be diagnosed without opening a console.
+
+### Changed
+
+- The state screenshot was regenerated from the shipped UI, including the failure reason line.
+
 ## 0.1.0 — 2026-10-15
 
 ### Added

diff --git a/README.md b/README.md
@@ -2,11 +2,11 @@
 
 **A little bucket that drains while your DeepSeek API balance is being spent.**
 
-![Six bucket states: full, pouring, low, refilled, unreadable, and dark theme](https://raw.githubusercontent.com/youchai2016/dsh-plugin-token-bucket/v0.1.0/docs/images/bucket-states.png)
+![Six bucket states: full, pouring, low, refilled, unreadable, and dark theme](https://raw.githubusercontent.com/youchai2016/dsh-plugin-token-bucket/v0.1.1/docs/images/bucket-states.png)
 
 一只挂在窗口角落的小水桶。**水是你的余额，漏出去的是正在花的钱。**
 
-Version 0.1.0.
+Version 0.1.1.
 
 ## What it does
 
